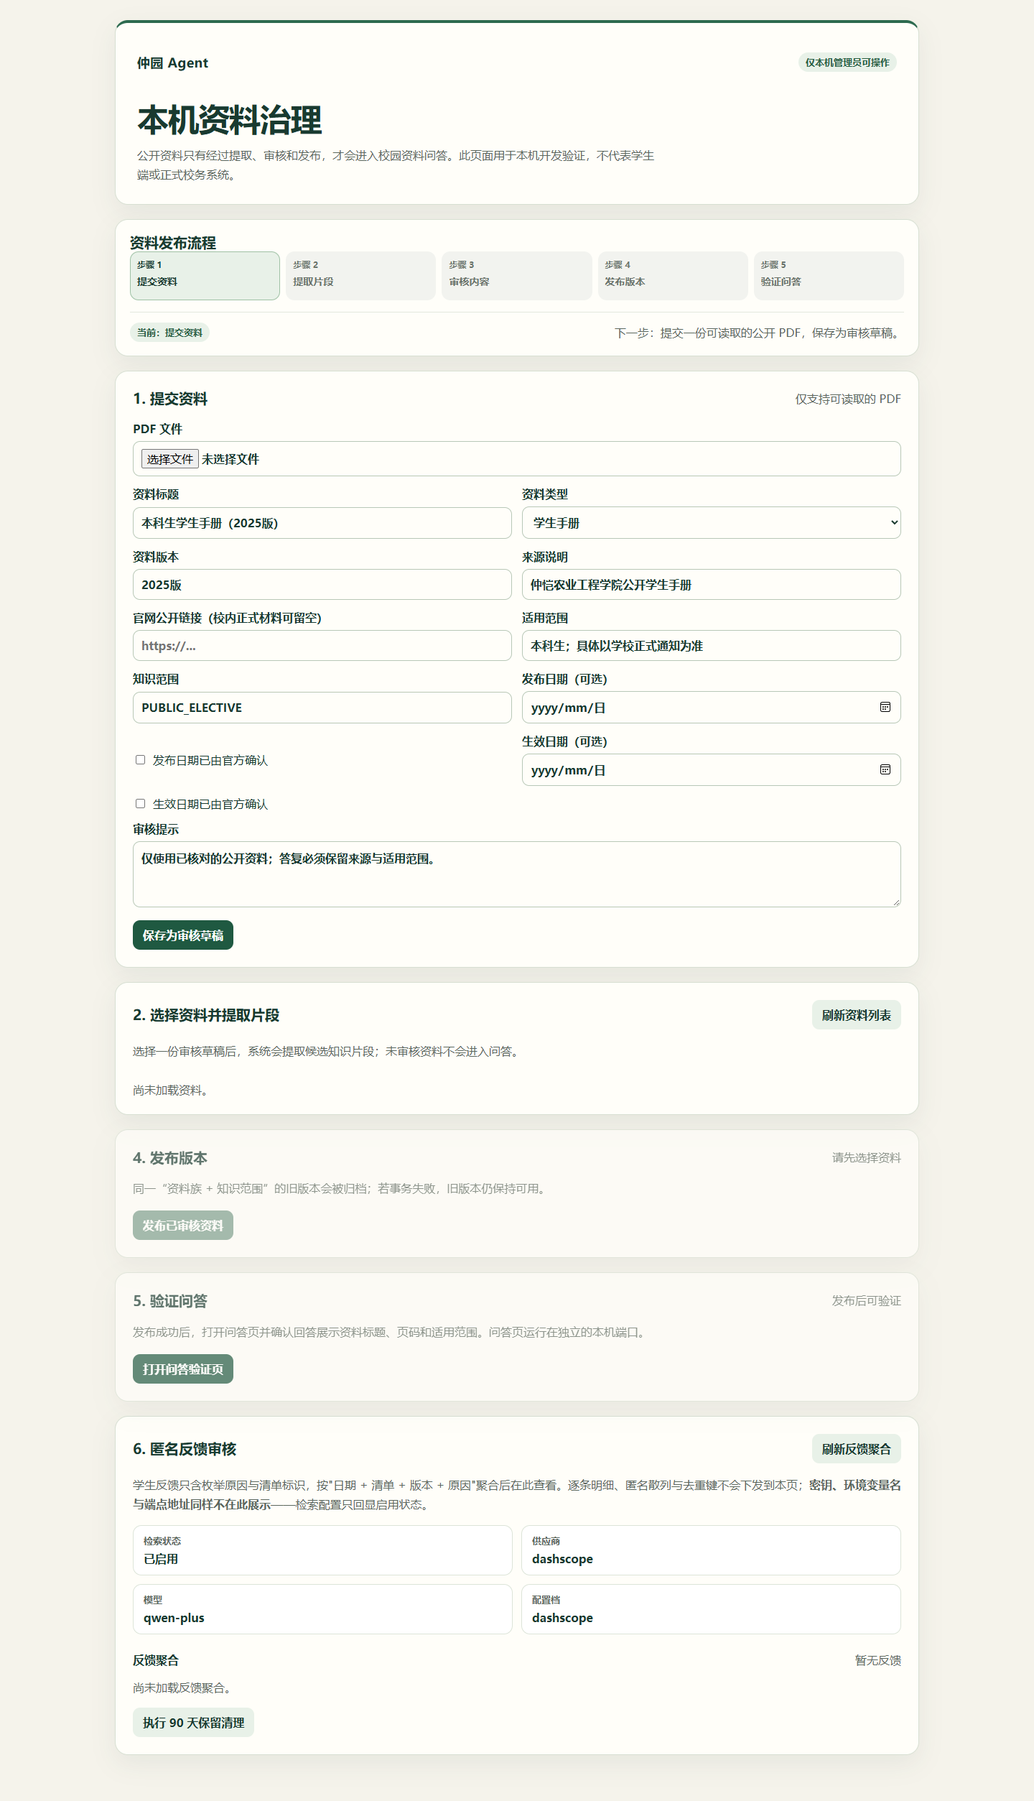
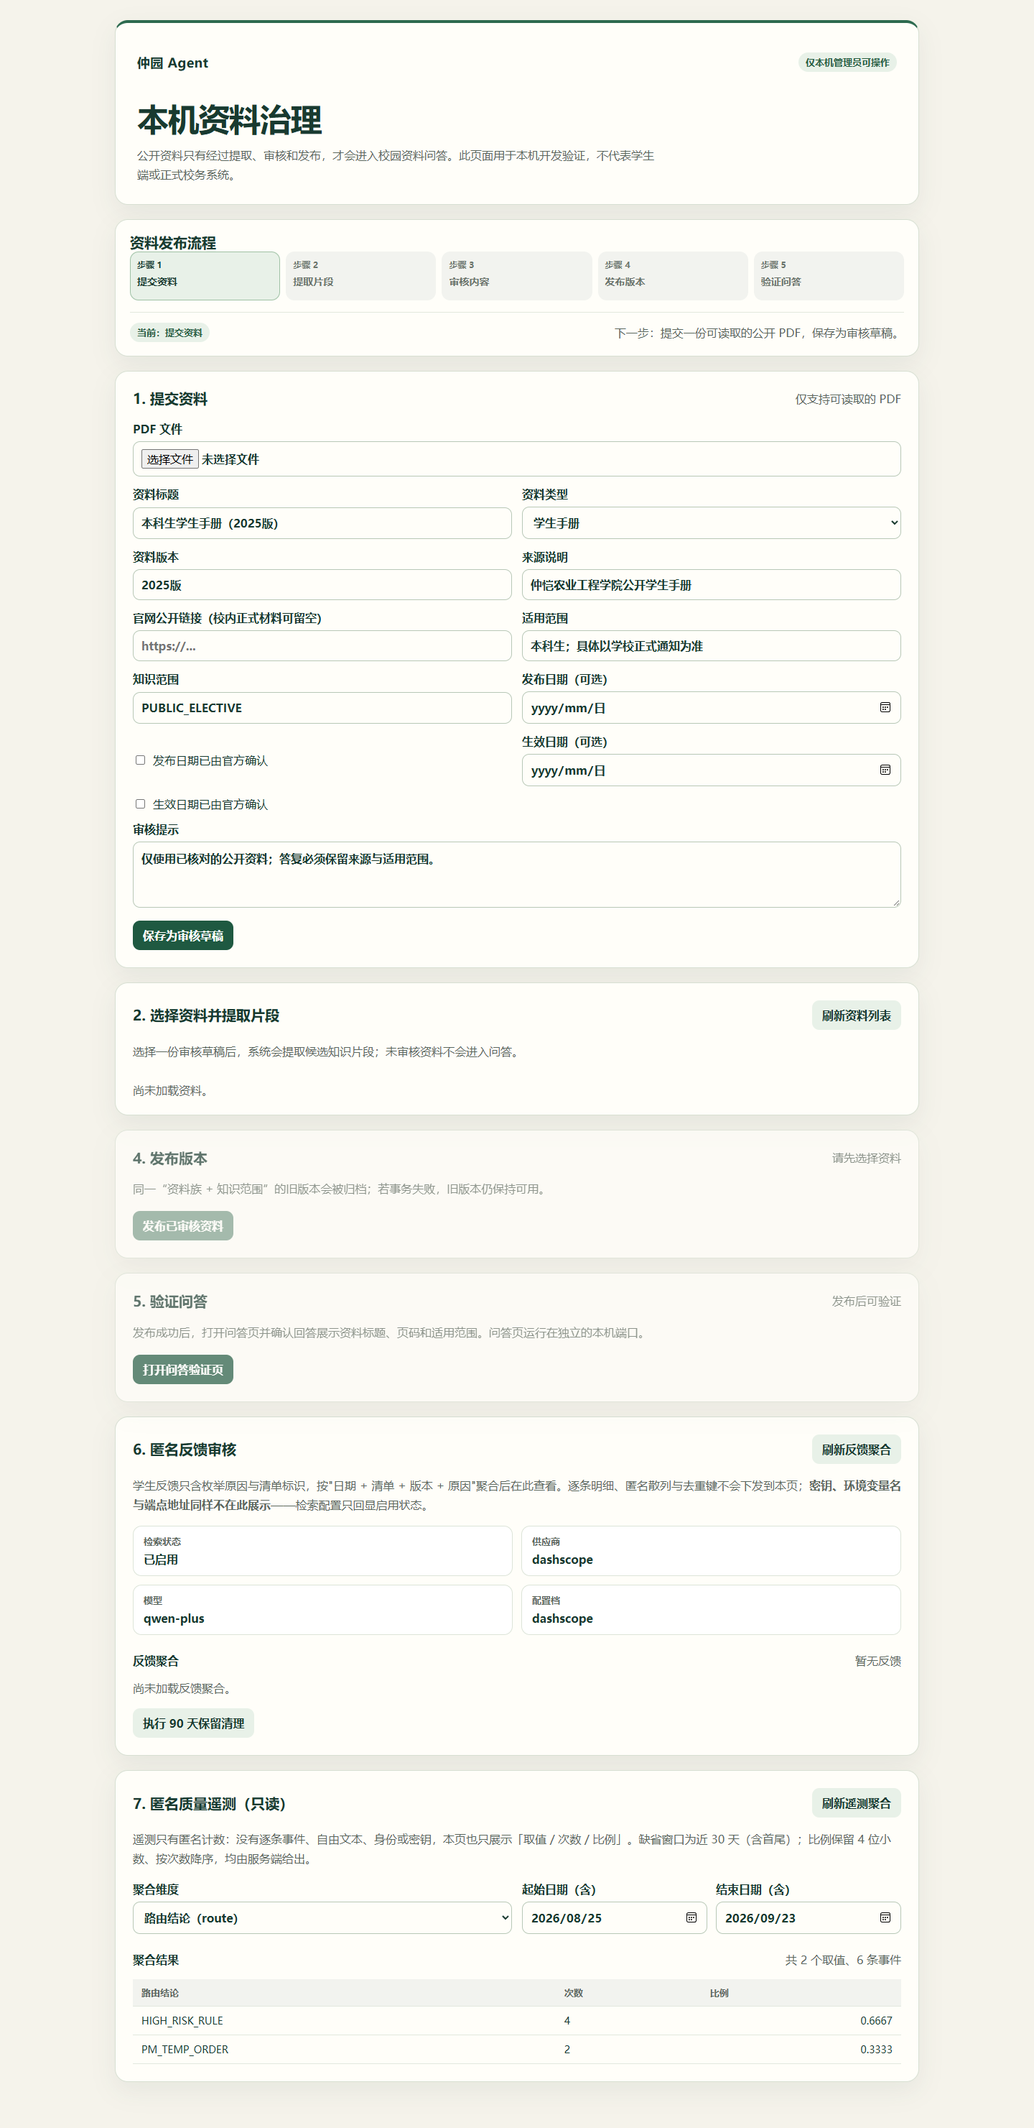
feat(frontend): 管理员页新增匿名质量遥测只读区
- local-admin/index.html 新增"7. 匿名质量遥测（只读）"：对接
  GET /zhku/local-admin/telemetry/aggregates（五受限维度、缺省近 30 天含首尾），
  只展示「取值/次数/比例」——比例展示层 toFixed(4) 补齐 JSON 数字丢掉的尾零，
  不重算、不改服务端排序；布尔桶译"是/否"，表头按维度切换。
- 降级路径全部中性化：404（端点未上线）→"观测面尚未启用…"、其他非 2xx/网络异常 →
  中性提示，不写全局错误横幅、不白屏；from>to 由客户端先拦（可预防的 400 不当服务故障）。
- 隐私边界：只消费服务端白名单聚合桶，无明细/自由文本/身份字段可展示。
- QA 结论（账本第一节）：两张 real-8124 截图 SHA256 完全相同 + 页面 CSS 无任何
  prefers-color-scheme/color-scheme → 管理端本就是固定亮色配色，属预期而非重复存储；
  落地第 4 项"设计令牌统一"前管理端截图只出 light 版。
- 验收：mock 逐字复刻遥测契约（维度白名单 400 / from>to 400 / 空数组）+ 系统 Edge
  5 场景全绿（数据/切维度/空窗口/未上线降级/日期倒序拦截），零 pageerror、零外部请求。
  ⚠ 真机 8124 被管理端启动 P0（TelemetryAdminController 装配缺陷，线 B 修）阻塞，
  修复入库后需真机复验并补 real-8124 截图。
- 新增 docs/evidence/2026-09-23-WB1-前端界面QA-证据账本.md（QA 结论 + 遥测验证记录
  + 反馈闭环复验待线 B B-2）。

diff --git a/knowledge/src/main/resources/zhku/local-admin/index.html b/knowledge/src/main/resources/zhku/local-admin/index.html
@@ -174,6 +174,33 @@
         <p id="feedback-empty" class="empty">尚未加载反馈聚合。</p>
         <div class="actions"><button id="retention-button" class="secondary" type="button">执行 90 天保留清理</button></div>
     </section>
+
+    <section class="card" id="telemetry-stage" aria-labelledby="telemetry-title">
+        <div class="section-heading"><h2 id="telemetry-title">7. 匿名质量遥测（只读）</h2><button id="refresh-telemetry" class="secondary" type="button">刷新遥测聚合</button></div>
+        <p class="hint">遥测只有匿名计数：没有逐条事件、自由文本、身份或密钥，本页也只展示「取值 / 次数 / 比例」。缺省窗口为近 30 天（含首尾）；比例保留 4 位小数、按次数降序，均由服务端给出。</p>
+        <div class="grid">
+            <label>聚合维度<select id="telemetry-dimension">
+                <option value="route">路由结论（route）</option>
+                <option value="failureCategory">失败类别（failureCategory）</option>
+                <option value="handoffRequired">是否转人工（handoffRequired）</option>
+                <option value="latencyBucket">耗时档（latencyBucket）</option>
+                <option value="eventDate">事件日期（eventDate）</option>
+            </select></label>
+            <div class="candidate-grid">
+                <label>起始日期（含）<input id="telemetry-from" type="date"></label>
+                <label>结束日期（含）<input id="telemetry-to" type="date"></label>
+            </div>
+        </div>
+        <p id="telemetry-validation" class="message error" role="alert" hidden></p>
+        <div class="section-heading sub-section"><h3>聚合结果</h3><span id="telemetry-summary" class="status">尚未加载</span></div>
+        <div class="table-scroll">
+            <table class="aggregate-table" id="telemetry-table" hidden>
+                <thead><tr><th scope="col" id="telemetry-value-heading">取值</th><th scope="col">次数</th><th scope="col" class="numeric">比例</th></tr></thead>
+                <tbody id="telemetry-rows"></tbody>
+            </table>
+        </div>
+        <p id="telemetry-empty" class="empty" hidden></p>
+    </section>
     <p id="page-error" class="message error" role="alert" hidden></p><p id="page-success" class="message success" role="status" hidden></p>
 </main>
 
@@ -190,6 +217,12 @@
     const feedbackConfigGrid = document.querySelector("#feedback-config"); const feedbackTable = document.querySelector("#feedback-table"); const feedbackRows = document.querySelector("#feedback-rows"); const feedbackEmpty = document.querySelector("#feedback-empty"); const feedbackSummary = document.querySelector("#feedback-summary"); const refreshFeedbackButton = document.querySelector("#refresh-feedback"); const retentionButton = document.querySelector("#retention-button");
     // 原因枚举的中文标签；未登记的取值原样显示，避免后端新增枚举时被前端静默吞掉。
     const feedbackReasonLabels = { NOT_HELPFUL: "没帮上忙", INCORRECT: "内容有误", OUTDATED: "已过期", MISSING_INFORMATION: "信息缺失" };
+    const telemetryEndpoint = "/api/zhku/local-admin/telemetry/aggregates";
+    const telemetryDimension = document.querySelector("#telemetry-dimension"); const telemetryFrom = document.querySelector("#telemetry-from"); const telemetryTo = document.querySelector("#telemetry-to"); const telemetryRows = document.querySelector("#telemetry-rows"); const telemetryTable = document.querySelector("#telemetry-table"); const telemetryEmpty = document.querySelector("#telemetry-empty"); const telemetrySummary = document.querySelector("#telemetry-summary"); const telemetryValueHeading = document.querySelector("#telemetry-value-heading"); const telemetryValidation = document.querySelector("#telemetry-validation"); const refreshTelemetryButton = document.querySelector("#refresh-telemetry");
+    // 维度只可能是服务端白名单里的五个；表头文案按维度切换，未知取值原样显示。
+    const telemetryDimensionLabels = { route: "路由结论", failureCategory: "失败类别", handoffRequired: "是否转人工", latencyBucket: "耗时档", eventDate: "事件日期" };
+    // 取值译名与 PrivacyBoundary.anonymousTelemetry 的白名单维度对齐；译不到的（如日期、新增枚举）原样显示。
+    const telemetryValueLabels = { NONE: "正常作答", RETRIEVAL_MISS: "检索未命中", MODEL_DEGRADED: "模型降级", LT_1S: "1 秒以内", S_1_3: "1–3 秒", S_3_10: "3–10 秒", GE_10S: "10 秒及以上" };
     // 用统一阶段描述同步步骤条与“下一步”提示，避免页面状态分散维护。
     const stageDescriptions = { SUBMIT: ["提交资料", "下一步：提交一份可读取的公开 PDF，保存为审核草稿。"], EXTRACT: ["提取片段", "下一步：选择资料并提取候选知识片段。"], REVIEW: ["审核内容", "下一步：逐条通过或丢弃候选片段，并记录审核说明。"], PUBLISH: ["发布版本", "下一步：确认所有候选片段均已处理后发布资料。"], VERIFY: ["验证问答", "下一步：在问答页确认回答带有资料依据与页码。"] };
     uploadForm.addEventListener("submit", async event => { event.preventDefault(); clearMessage(); const formData = new FormData(uploadForm); setBusy(uploadForm, true); try { const response = await fetch(submissionsEndpoint, { method: "POST", body: formData }); const payload = await readJson(response); if (!response.ok) { showError(payload.message || "资料提交失败，请检查表单和 PDF。"); return; } showSuccess("资料已保存为审核草稿。请选择该资料并提取候选片段。"); uploadForm.reset(); activateStage("EXTRACT"); await loadSubmissions(payload.id); } catch (error) { showError("本机资料服务暂不可用，请确认服务和数据库已启动。"); } finally { setBusy(uploadForm, false); } });
@@ -225,6 +258,56 @@
     function renderFeedbackAggregates(aggregates) { feedbackRows.replaceChildren(); const total = aggregates.reduce((sum, aggregate) => sum + (Number(aggregate.count) || 0), 0); feedbackTable.hidden = aggregates.length === 0; feedbackEmpty.hidden = aggregates.length > 0; feedbackSummary.textContent = aggregates.length === 0 ? "暂无反馈" : `共 ${aggregates.length} 组聚合、${total} 条反馈`; aggregates.forEach(aggregate => { const row = document.createElement("tr"); [aggregate.guideIdentifier, aggregate.guideVersion, feedbackReasonLabels[aggregate.reason] || aggregate.reason, aggregate.feedbackDate, String(aggregate.count ?? 0)].forEach((value, index) => { const cell = document.createElement("td"); cell.textContent = value ?? "—"; if (index === 4) { cell.className = "numeric"; } row.append(cell); }); feedbackRows.append(row); }); }
     // 保留清理会真实删除到期明细，所以走与其他高影响操作相同的确认弹窗，并显式回报合并条数。
     async function runFeedbackRetention() { clearMessage(); try { const response = await fetch(`${feedbackEndpoint}/retention`, { method: "POST" }); const payload = await readJson(response); if (!response.ok) { showError(payload.message || "保留清理未完成，请检查服务状态。"); return; } await loadFeedbackData(); showSuccess(`保留清理完成：本次合并并清理 ${payload.aggregatedEventCount ?? 0} 条到期明细。`); } catch (error) { showError("本机资料服务暂不可用，请确认服务和数据库已启动。"); } }
+    // 遥测是只读观测面：任何失败（接口未上线/服务不可用）都降级为中性提示，不得报错或白屏。
+    function isoDate(date) { const pad = (n) => String(n).padStart(2, "0"); return `${date.getFullYear()}-${pad(date.getMonth() + 1)}-${pad(date.getDate())}`; }
+    // 缺省窗口与服务端一致（近 30 天含首尾）：显式填上，让管理员始终看得到当前窗口。
+    function setDefaultTelemetryWindow() { const today = new Date(); const start = new Date(today); start.setDate(start.getDate() - 29); telemetryFrom.value = isoDate(start); telemetryTo.value = isoDate(today); }
+    function clearTelemetryResult() { telemetryRows.replaceChildren(); telemetryTable.hidden = true; telemetryEmpty.hidden = false; telemetryEmpty.textContent = ""; }
+    refreshTelemetryButton.addEventListener("click", loadTelemetry);
+    telemetryDimension.addEventListener("change", loadTelemetry);
+    async function loadTelemetry() {
+        clearMessage();
+        const from = telemetryFrom.value; const to = telemetryTo.value;
+        if (from && to && from > to) {
+            // 客户端先拦日期窗口问题，避免把可预防的 400 当成服务故障展示。
+            telemetryValidation.textContent = "起始日期不能晚于结束日期。"; telemetryValidation.hidden = false;
+            clearTelemetryResult(); telemetrySummary.textContent = "日期窗口无效"; return;
+        }
+        telemetryValidation.hidden = true;
+        const params = new URLSearchParams({ dimension: telemetryDimension.value });
+        if (from) { params.set("from", from); }
+        if (to) { params.set("to", to); }
+        try {
+            const response = await fetch(`${telemetryEndpoint}?${params}`);
+            if (response.status === 404) { renderTelemetryUnavailable("观测面尚未启用：本机管理端还没有遥测聚合接口。"); return; }
+            if (!response.ok) { renderTelemetryUnavailable(response.status === 400 ? "请求参数未被接受，请检查日期窗口。" : "遥测聚合暂不可用，请稍后重试。"); return; }
+            const buckets = await readJson(response);
+            if (!Array.isArray(buckets)) { renderTelemetryUnavailable("遥测聚合返回了意外的格式，请稍后重试。"); return; }
+            renderTelemetryBuckets(buckets);
+        } catch (error) { renderTelemetryUnavailable("遥测聚合暂不可用，请确认管理端服务已启动。"); }
+    }
+    // 端点未上线/不可用时的优雅降级：中性文案 + 空态，不写全局错误横幅。
+    function renderTelemetryUnavailable(message) { clearTelemetryResult(); telemetryEmpty.textContent = message; telemetrySummary.textContent = "未启用"; }
+    function renderTelemetryBuckets(buckets) {
+        const dimension = telemetryDimension.value;
+        telemetryValueHeading.textContent = telemetryDimensionLabels[dimension] || "取值";
+        telemetryRows.replaceChildren();
+        telemetryTable.hidden = buckets.length === 0;
+        telemetryEmpty.hidden = buckets.length > 0;
+        telemetryEmpty.textContent = buckets.length === 0 ? "所选窗口内暂无遥测数据。" : "";
+        const total = buckets.reduce((sum, bucket) => sum + (Number(bucket.count) || 0), 0);
+        telemetrySummary.textContent = buckets.length === 0 ? "暂无数据" : `共 ${buckets.length} 个取值、${total} 条事件`;
+        buckets.forEach(bucket => {
+            const row = document.createElement("tr");
+            const value = bucket[dimension];
+            // ratio 服务端已给 4 位小数，但 JSON 数字会丢尾零，展示层补齐格式（不重算、不改序）。
+            const cells = [value === true ? "是" : value === false ? "否" : telemetryValueLabels[value] ?? String(value ?? "—"), String(bucket.count ?? 0), Number(bucket.ratio ?? 0).toFixed(4)];
+            cells.forEach((text, index) => { const cell = document.createElement("td"); cell.textContent = text; if (index === 2) { cell.className = "numeric"; } row.append(cell); });
+            telemetryRows.append(row);
+        });
+    }
+    setDefaultTelemetryWindow();
+    loadTelemetry();
     loadSubmissions();
     loadFeedback();
 </script>

diff --git a/docs/evidence/2026-09-23-WB1-前端界面QA-证据账本.md b/docs/evidence/2026-09-23-WB1-前端界面QA-证据账本.md
@@ -1,0 +1,66 @@
+# WB-1 前端界面 QA 证据账本（2026-09-23 起）
+
+> 登记方：WB-1（前端/页面线）。依据：`docs/plans/agent-sync/2026-09-22-PM派发-三条线提示词.md` §三。
+> 原则：只追加；只记前端线自己的交付与验证，不代他线下结论。
+
+## 一、两张真机 8124 截图字节相同的 QA 结论（PM 派发第 1 项，已闭环）
+
+**现象**：`local-admin.real-8124.1440x900.light.png` 与 `local-admin.real-8124.1440x900.dark.png`
+字节数完全相同（243524 B）。
+
+**证据（2026-09-23 复核）**：
+
+| 项 | 值 |
+| --- | --- |
[2 lines of base64/hex data omitted]
+| `local-admin/index.html` 内 `prefers-color-scheme` 出现次数 | **0** |
+| `local-admin/index.html` 内 `color-scheme` 出现次数 | **0** |
+
+**结论：管理端本就无主题差异，不是"同一张图存了两次"。** 该页面是固定亮色配色（写死的
+`#f5f3eb/#193a30` 等取值），没有任何 `prefers-color-scheme`/`color-scheme` 分支，浏览器
+`colorScheme: dark` 的 context 渲染不出任何像素差异 → 两张 PNG 字节相同是**预期结果**。
+暗色适配正是派发单第 4 项"设计令牌统一（local-admin 与 local-preview 一致）"的范围（等阶段 10
+发布报告核验后再做）；在那一项落地之前，管理端截图**只出 light 版**（dark 版与 light 版恒等价）。
+
+## 二、管理员页"匿名质量遥测"只读区（PM 派发第 2 项，mock 验证完成 / 真机被 P0 阻塞）
+
+**对接契约**：`GET /zhku/local-admin/telemetry/aggregates?dimension=&from=&to=`——
+以 PM 8136 真机逐项验证的契约为准，并与主线 `TelemetryAdminController` +
+`TelemetryAggregateDimension` + `PrivacyBoundary.telemetryAggregateExport` 源码双向核对：
+五个受限维度（`route`/`failureCategory`/`handoffRequired`/`latencyBucket`/`eventDate`，
+`dimension=bogus` → 400）、缺省窗口近 30 天含首尾（`from>to` → 400）、桶结构
+`{ [维度名]: 取值, count, ratio }`、比例 4 位小数、按 count 降序、无数据 `[]`。
+
+**实现要点（local-admin/index.html 新增"7. 匿名质量遥测（只读）"区）**：
+- 维度下拉 + 起止日期（缺省显式填近 30 天，与服务端缺省一致，管理员始终看得到当前窗口）；
+- 表头/取值列按维度切换（是否转人工维度的布尔值译成"是/否"）；
+- **比例展示层用 `toFixed(4)` 补齐尾零**：服务端 BigDecimal `1.0000` 经 JSON 数字解析会丢成 `1`，
+  展示层只补格式、不重算、不改序；
+- **降级路径全部中性化**：404（端点未上线）→ "观测面尚未启用…"；其他非 2xx → "暂不可用，请稍后重试"；
+  网络异常 → "请确认管理端服务已启动"；一律不写全局错误横幅、不白屏；
+- `from>to` 由**客户端先拦**（可预防的 400 不当成服务故障展示）；
+- 只展示桶/计数/比例，无明细、无自由文本、无身份字段（接口本身也不下发）。
+
+**验证（mock 逐字复刻上述边界 + 系统 Edge 真跑页面，2026-09-23）**：
+
+| 场景 | 断言结果 |
+| --- | --- |
+| 默认窗口有数据（PM 实测的 2 桶形态） | 表头"路由结论"；`HIGH_RISK_RULE 4 / 0.6667`、`PM_TEMP_ORDER 2 / 0.3333`（4 位小数保留）；汇总"共 2 个取值、6 条事件" |
+| 切维度 `handoffRequired` | 表头"是否转人工"；布尔桶渲染为 `否 5 / 0.8333`、`是 1 / 0.1667` |
+| 空窗口（`[]`） | 表隐藏，空态"所选窗口内暂无遥测数据。"，汇总"暂无数据" |
+| 端点未上线（404） | **优雅降级**：空态"观测面尚未启用：本机管理端还没有遥测聚合接口。"、汇总"未启用"，无错误横幅 |
+| `from>to` | 客户端拦截："起始日期不能晚于结束日期。"，不发请求、无错误横幅 |
+
+全部场景 `pageerror` 为 0、外部请求为 0、无横向滚动。截图：
+`local-admin.visual-check.1440x900.stage9-telemetry.{data,handoff,empty,unavailable,inverted-window}.png`。
+
+**⚠ 阻塞与待办**：真机 8124 目前因管理端启动 P0（`TelemetryAdminController` 双构造器缺
+`@Autowired`，线 B 修）**起不来**，以上为 mock 取证；**线 B 修复入库后需真机复验一次并补
+`local-admin.real-8124.*` 截图**，在那之前不得宣称"已对真实遥测接口验证过"。
+
+## 三、学生侧反馈闭环复验（PM 派发第 3 项）—— 被线 B 的 B-2 阻塞
+
+`2025版` 提交反馈当前仍会被后端 `guideVersion` 校验拦下（400，WB-1 2026-09-22 已实测并登记
+SYNC-STATUS §四）。等线 B 的"反馈 `guideVersion` 校验放宽"（方案①）入库后，复验
+`2025版` → **201** 并附截图回报。页面前端无需改动（请求体形状已按契约实现）。

diff --git a/docs/plans/agent-sync/SYNC-STATUS.md b/docs/plans/agent-sync/SYNC-STATUS.md
@@ -109,6 +109,7 @@
 | `knowledge/src/main/resources/zhku/local-preview/index.html` | WB-1（前端） | SSE 流式接进问答页（**已提交 `e1a4303`**：SSE 载荷 + 6 张验收截图）；阶段 9 **学生侧反馈入口**正在同一文件上实现（`POST /zhku/feedback`，四枚举 + 前端本地生成的 64 位十六进制散列，凭证取自 `guideCard`） | 2026-09-20 09:20（2026-09-22 21:25 更新） |
 | `knowledge/src/main/resources/zhku/local-admin/index.html` | WB-1（前端） | 阶段 9 管理员最小审核界面：对接 `GET /zhku/local-admin/feedback/aggregates`、`POST /zhku/local-admin/feedback/retention`、`GET /zhku/local-admin/feedback/configuration`；**只展示聚合与 provider/model/profile/status，绝不展示密钥、环境变量名或端点** | 2026-09-22 21:25 |
 | `docs/evidence/` | WB-3（线 A）/ WB-1 / CX-1 | 各线证据账本（**共享目录，新增文件不构成冲突**；只追加、不改他线文件） | 2026-09-17 16:41 |
+| `knowledge/src/main/resources/zhku/local-admin/index.html` | WB-1（前端） | PM 派发批（`86cb10f`/2026-09-22 提示词 §三）：① 两张真机截图字节相同的 QA 结论；② 新增"匿名质量遥测"只读区（对接 `GET /zhku/local-admin/telemetry/aggregates`，五受限维度、30 天默认窗口、只展示桶/计数/比例，端点未上线时优雅降级）。**真机 8124 验证被管理端启动 P0（线 B）阻塞，先用契约复刻 mock 取证** | 2026-09-23 10:45 |
 | `knowledge/src/main/resources/application-zhku-local-preview.yml` | 已合并（两线共用） | 线 A 的 `zhku.rag.*` 与线 B 的 `zhku.streaming.*` 现已并存于主线；**此后任何一方再改此文件前须重新登记**（本次合并冲突即发生在此文件） | 2026-09-18 20:44 |
 | `knowledge/src/main/java/com/zhku/knowledge/serviceguide/` 及 `knowledge/src/test/java/com/zhku/knowledge/serviceguide/` | WB-3（线 A） | 阶段 9 任务 2：不可变 `ServiceGuide` / `GuideStep` / `OfficialChannel` / `HumanHandoffReason` + 只返回"有当前有效证据"的清单解析器（**新包，主+测试目录一并占用**） | 2026-09-20 09:46 |
 | `knowledge/src/main/resources/db/migration/V15__*` | WB-3（线 A） | 阶段 9 线 A 迁移（最终裁决号段）：`service_guide` / 步骤 / 材料 / 官方渠道 / 风险提示 / 关联规则与通知版本。**自包含、不与线 B 的 `V16` 建外键**；确需关联用软引用（清单标识 + 版本号）。**同一时刻只有一个会话创建迁移文件** | 2026-09-20 09:46 |
